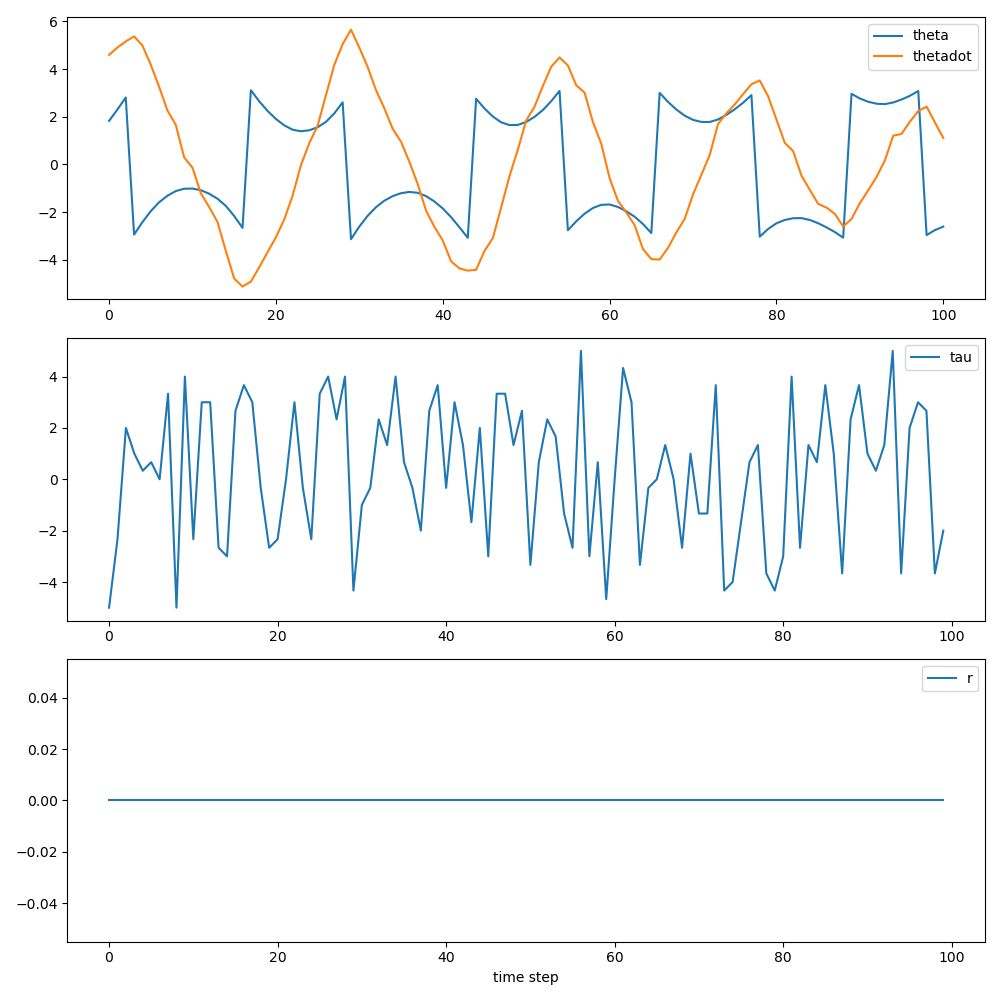
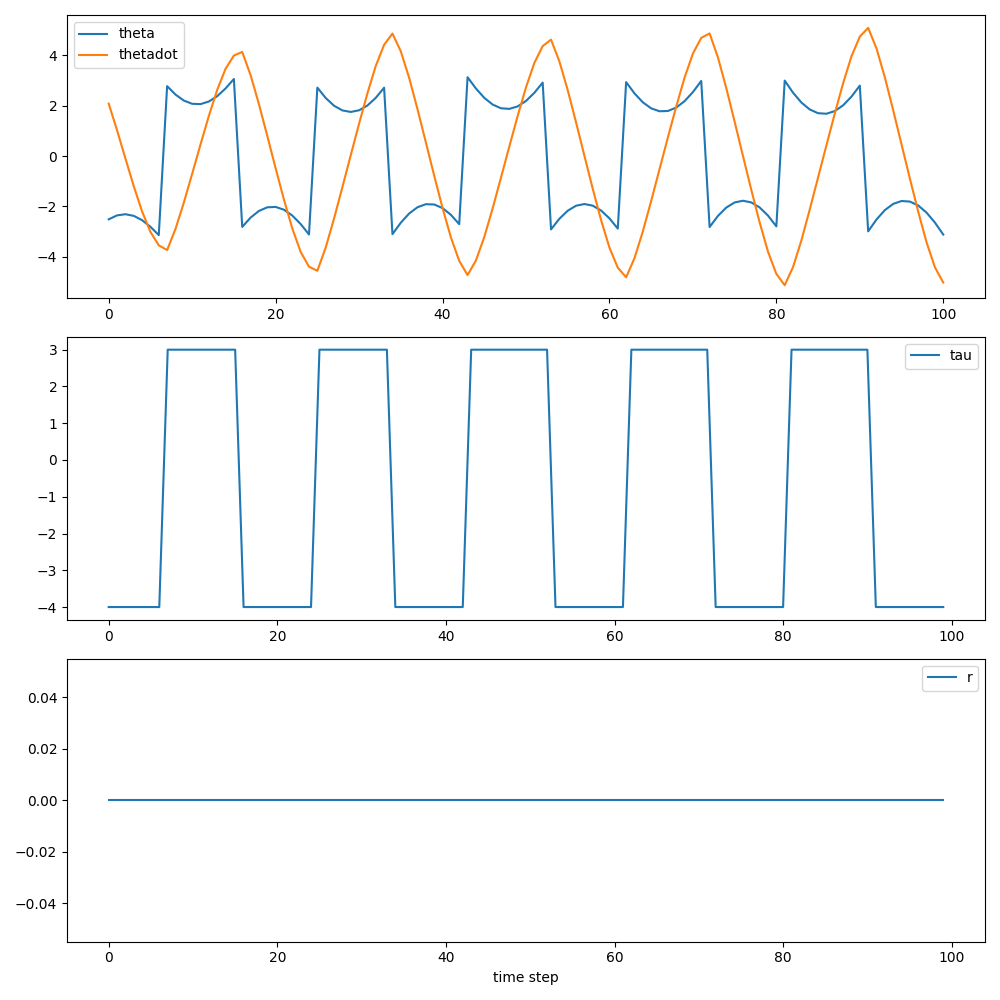
DQN

diff --git a/train_discreteaction_pendulum.py b/train_discreteaction_pendulum.py
@@ -42,10 +42,10 @@ class DQN_agent:
         self.num_episodes = num_episodes
         self.gamma = gamma
         self.loss = torch.nn.MSELoss()
-        self.optimizer = optim.RMSprop(self.evaluate_net.parameters(), lr=learning_rate)
+        self.optimizer = optim.RMSprop(self.evaluate_net.parameters(), lr=learning_rate, alpha=0.95, eps=0.01, momentum=0.95)
         self.replay_buffer = replay_buffer
         self.learn_step_counter = 0
-        self.target_replace_freq = 10
+        self.target_replace_freq = 10000
         self.memory = deque(maxlen = self.replay_buffer) #each element of the memory is [s,a,r,s',done]
         self.log = {
         't': [0],
@@ -92,7 +92,9 @@ class DQN_agent:
 
         if self.epsilon > self.epsilon_min:
             # self.epsilon *= self.epsilon_decay
-            self.epsilon -= (self.epsilon_initial - self.epsilon_min)/self.replay_buffer
+            self.epsilon -= (self.epsilon_initial - self.epsilon_min)/10000
+        
+        return self.evaluate_net, self.target_net
     
     def load(self, name):
         self.qnetwork().load_state_dict(name)
@@ -102,6 +104,7 @@ class DQN_agent:
 
     def DQN(self):
         batch_size = 32
+        # pi = lambda s: self.env.num_actions // 2
         for episode in range(self.num_episodes):
             s = self.env.reset()
             # self.log['s'].append(s)
@@ -120,22 +123,55 @@ class DQN_agent:
                 self.store_experience(s,a,r,s_new,done)
                 s = s_new
                 if len(self.memory) > batch_size:
-                    self.experience_replay(batch_size)
+                    evaluate_net, target_net = self.experience_replay(batch_size)
+            pi = lambda s: torch.argmax(evaluate_net(s)).item()
             self.log['G'].append(G)
             self.log['episodes'].append(episode)
-            print("Episode:", episode, "Return:", G, "Epsilon:", self.epsilon)
-        return self.log
+            print("Episode:", episode+1, "Return:", G, "Epsilon:", self.epsilon)
+        return evaluate_net, pi, self.log
 
 def main():
     env = discreteaction_pendulum.Pendulum()
-    agent = DQN_agent(env=env, learning_rate=0.001, epsilon=1.0, num_episodes=100, gamma=0.95, replay_buffer=1000)
-    log = agent.DQN()
-    plt.plot(log['episodes'], log['G'])
-    plt.show()
+    agent = DQN_agent(env=env, learning_rate=0.00025, epsilon=1.0, num_episodes=1000000, gamma=0.95, replay_buffer=1000000)
+    evaluate_net, pi, log = agent.DQN()
     # s = env.reset()
-    # log['s'].append(s)
-    # while not done:
-    #     a
+    # print(pi(s))
+    s = env.reset()
+    log['s'].append(s)
+    done = False
+    opt_policy = []
+    while not done:
+        a = pi(s)
+        opt_policy.append(a)
+        (s,r,done) = env.step(a)
+        log['t'].append(log['t'][-1] + 1)
+        log['s'].append(s)
+        log['a'].append(a)
+        log['r'].append(r)
+    print(opt_policy)
+    log['s'] = np.array(log['s'])
+    theta = log['s'][:,0]
+    thetadot = log['s'][:,1]
+    tau = [env._a_to_u(a) for a in log['a']]
+    fig, ax = plt.subplots(3, 1, figsize=(10, 10))
+    ax[0].plot(log['t'], theta, label='theta')
+    ax[0].plot(log['t'], thetadot, label='thetadot')
+    ax[0].legend()
+    ax[1].plot(log['t'][:-1], tau, label='tau')
+    ax[1].legend()
+    ax[2].plot(log['t'][:-1], log['r'], label='r')
+    ax[2].legend()
+    ax[2].set_xlabel('time step')
+    plt.tight_layout()
+    plt.savefig('figures/test_discreteaction_pendulum.png')
+
+    plt.figure()
+    plt.plot(log['episodes'], log['G'])
+    plt.ylabel('Return')
+    plt.xlabel('Episodes')
+    plt.title('Learning Curve')
+    plt.savefig('figures/learning_curve.png')
+
 
 if __name__ == "__main__":
     main()
